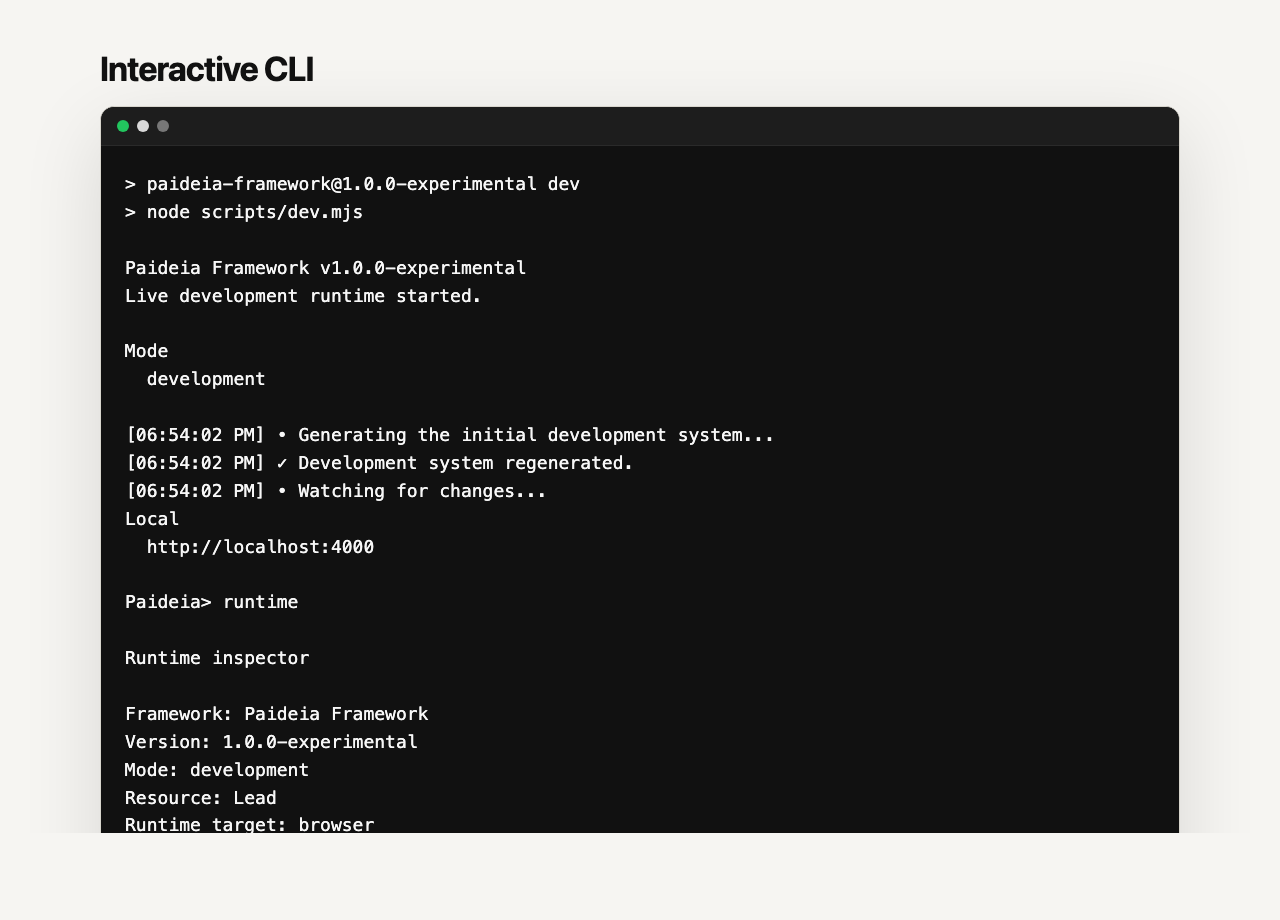
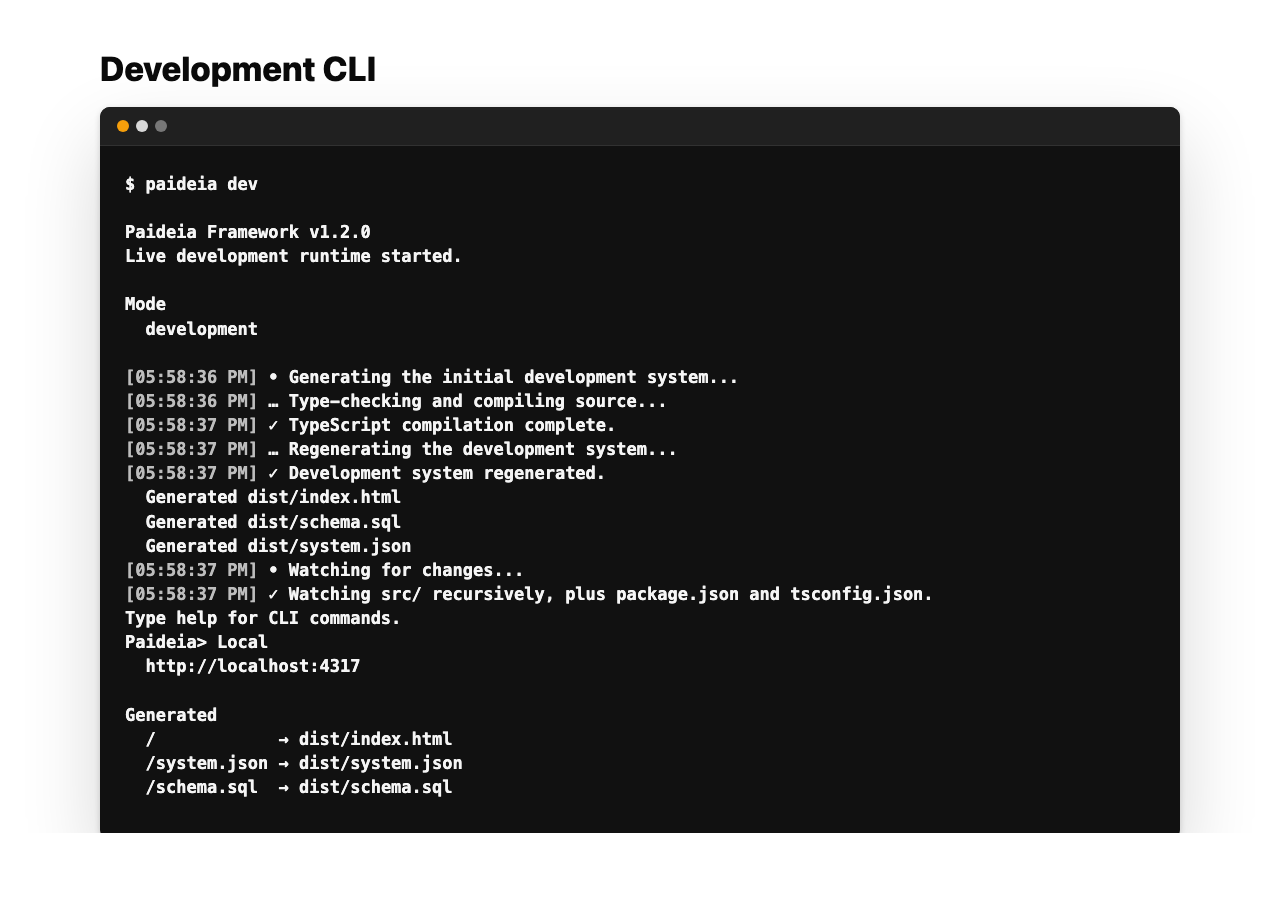
Refresh v1.2 README and CLI screenshot

diff --git a/README.md b/README.md
@@ -4,6 +4,8 @@ Inspectable AI-native application runtime framework.
 
 Describe the system. Generate the software. Keep it understandable.
 
+Paideia is an inspectable AI-native runtime for generated systems.
+
 Status: `v1.2.0`
 
 Paideia is an AI-native application runtime focused on inspectability, operational clarity, and secure defaults.
